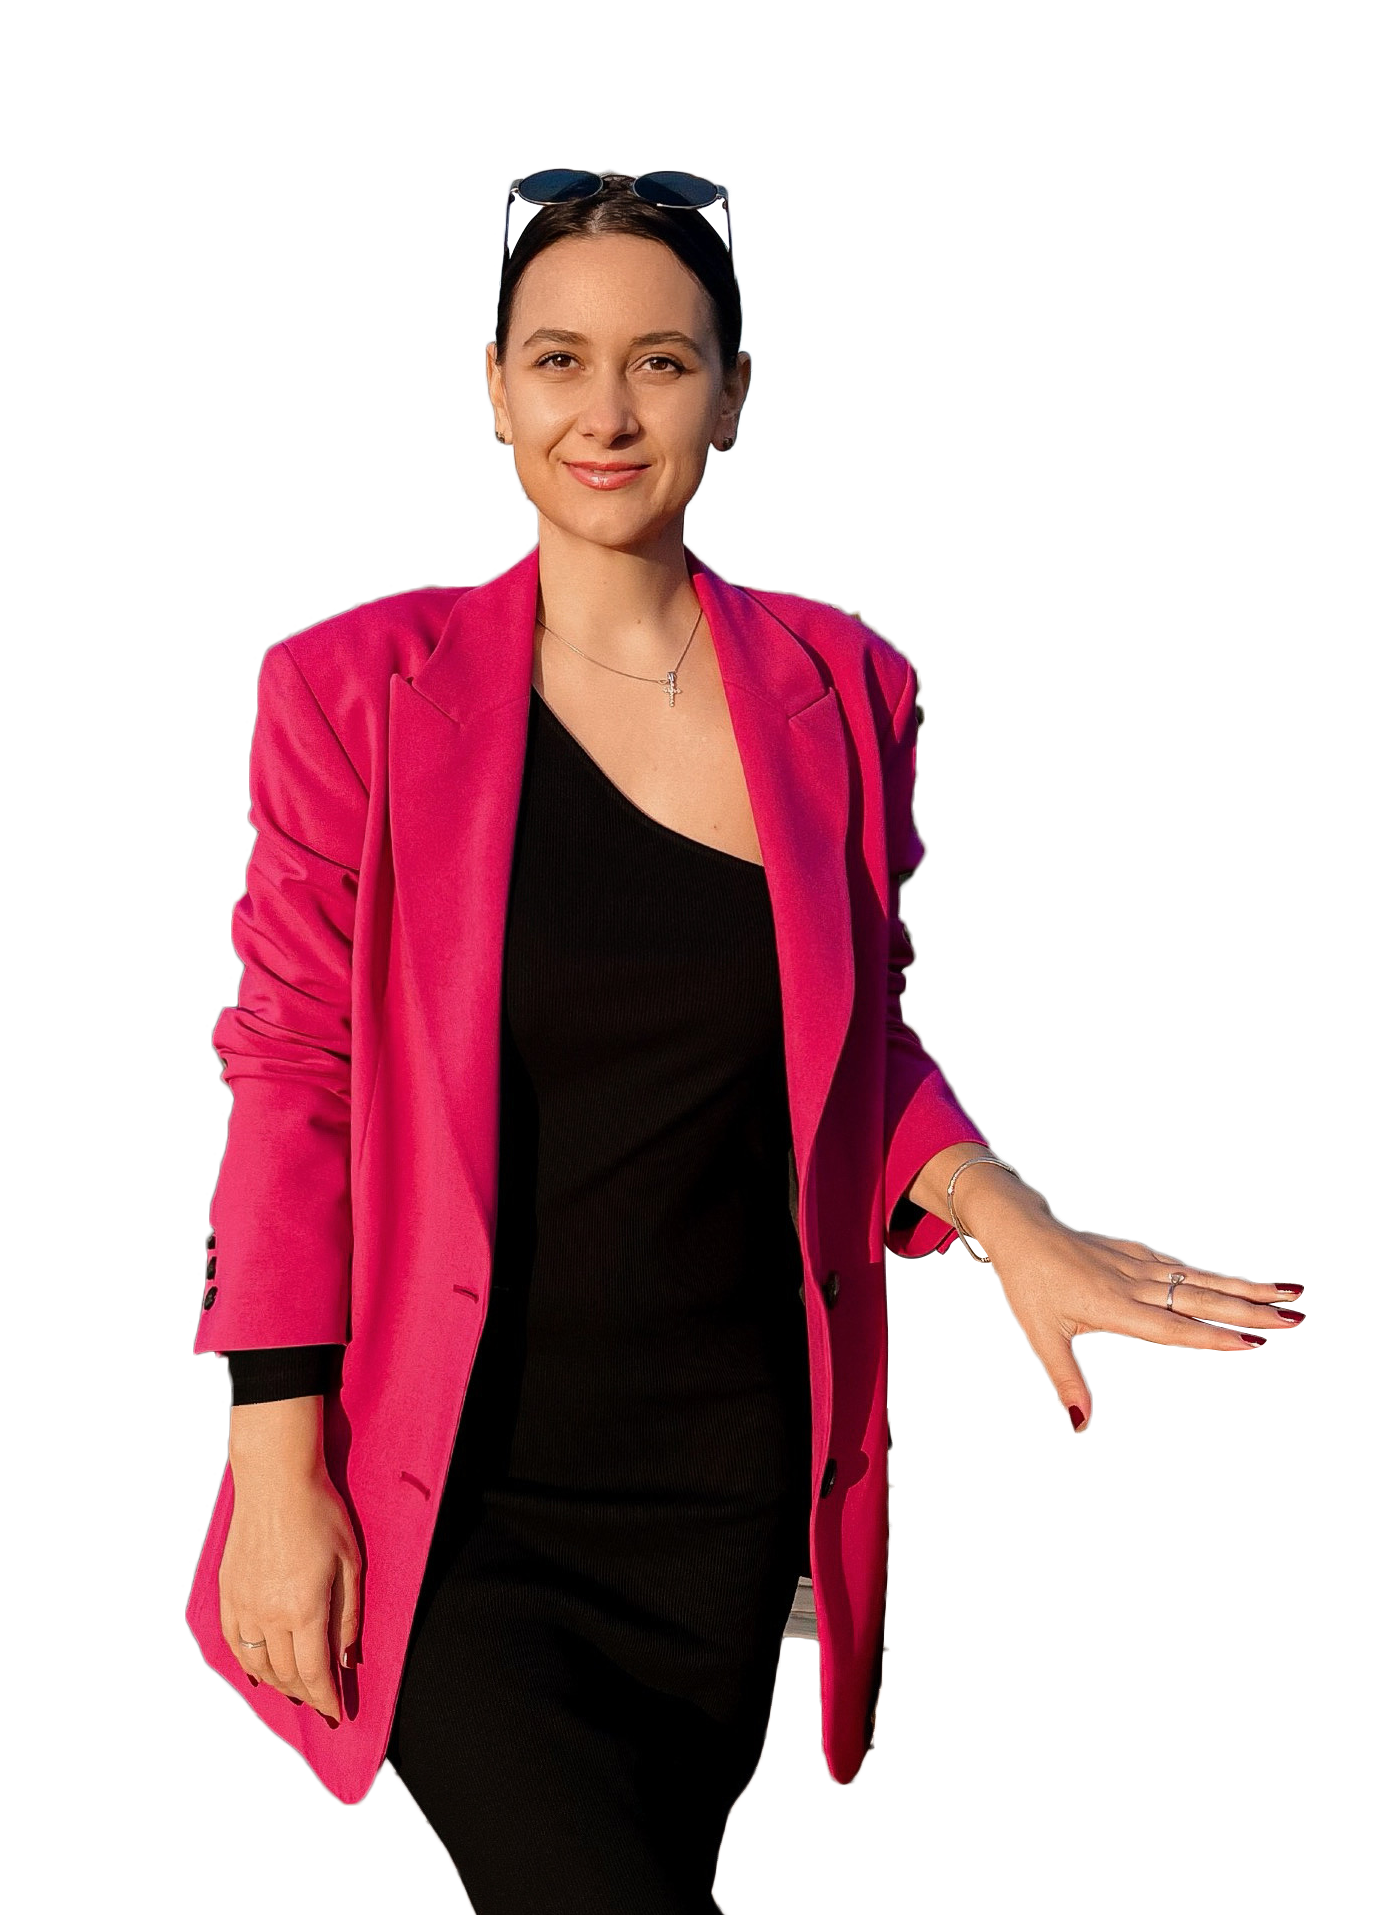
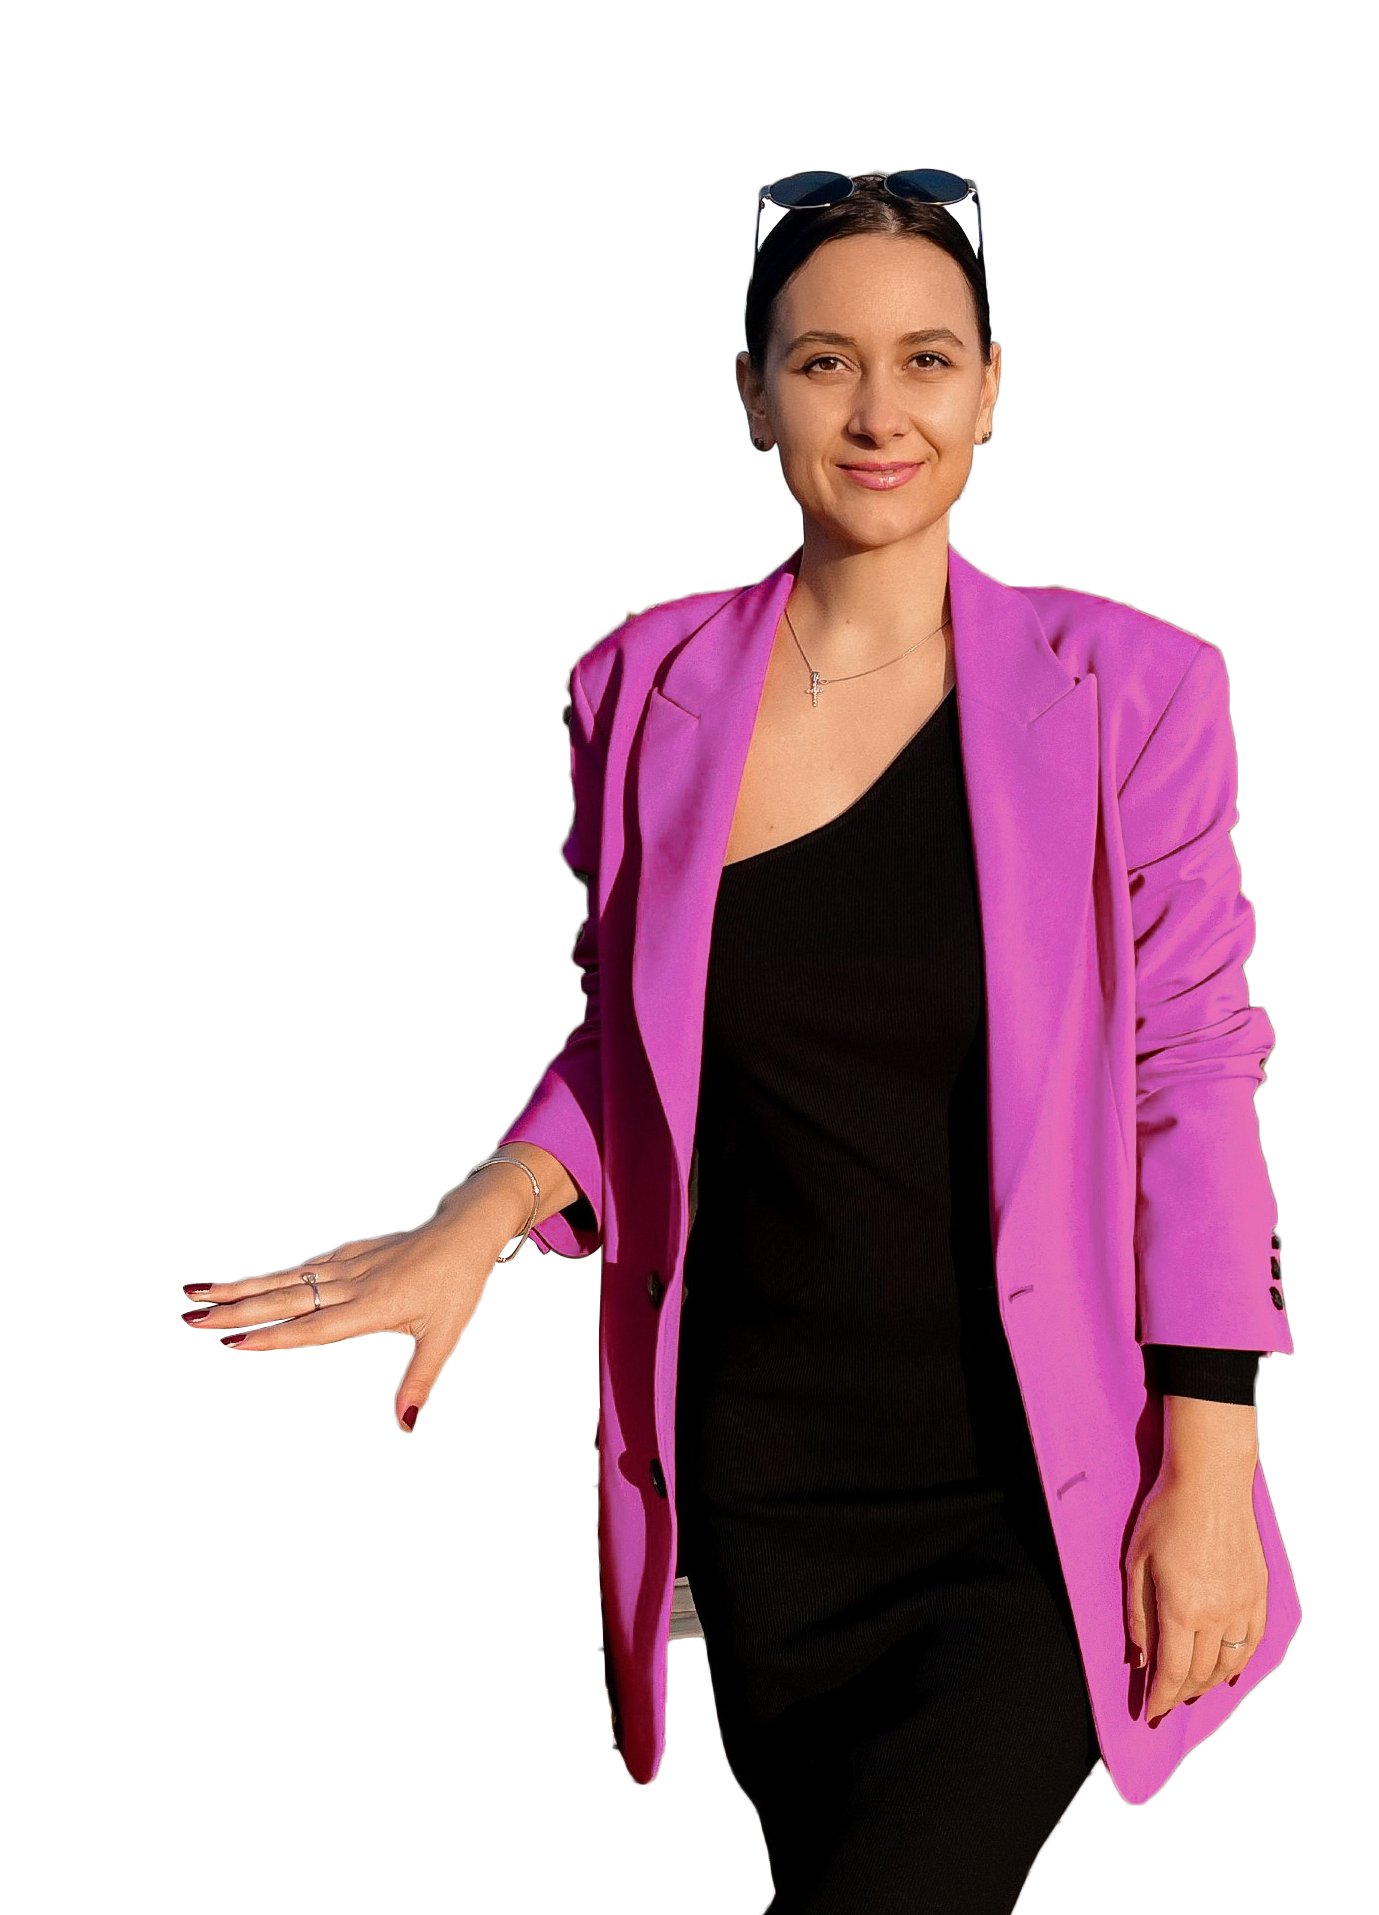
hero

diff --git a/src/partials/hero.html b/src/partials/hero.html
@@ -1,10 +1,45 @@
 <section class="hero-section">
   <div class="container">
+    <div class="main-photo-wrapper">
+      <picture class="main-photo">
+        <source
+          media="(min-width: 1200px)"
+          srcset="
+            ./img/components/milkchok_desk@1x.png 1x,
+            ./img/hero/portrait.png               2x
+          "
+          type="image/png"
+        />
+        <source
+          media="(min-width: 768px)"
+          srcset="
+            ./img/components/milkchocolate_tab@1x.png 1x,
+            ./img/components/milkchocolate_tab@2x.png 2x
+          "
+          type="image/png"
+        />
+        <source
+          media="(min-width: 320px)"
+          srcset="
+            ./img/components/milkchocolate@1x.png 1x,
+            ./img/components/milkchocolate@2x.png 2x
+          "
+          type="image/png"
+        />
+        <img
+          src="./img/hero/portrait.png"
+          alt="Milk chocolate"
+          class="images-components"
+          width="655"
+        />
+      </picture>
+    </div>
     <div class="hero-wrapper">
       <h1 class="visually-hidden">Simply chocolate</h1>
       <h2 class="hero-subtitle">
         Cтвори своє щасливе життя завдяки Законам Карми!
       </h2>
+
       <!-- <img class="img-test" src="/img/hero/FAiBR.png" alt="hjkhkjh" /> -->
       <div class="hero-btn-wrapper">
         <ul class="hero-list-btn list">

diff --git a/src/css/hero.css b/src/css/hero.css
@@ -19,7 +19,18 @@
     padding-bottom: 72px;
   }
 }
-
+.main-photo {
+  width: 1200px;
+  display: inline;
+}
+.main-photo-wrapper {
+  position: absolute;
+  top: -8px;
+  right: 180px;
+  width: 600px;
+  height: 700px;
+  overflow: hidden;
+}
 .hero-wrapper {
   display: flex;
   flex-direction: column;
@@ -110,6 +121,7 @@
 /*========== Subtitle ==========*/
 
 .hero-subtitle {
+  font-style: italic;
   margin-bottom: 32px;
   font-weight: 500;
   font-size: 20px;

diff --git a/src/css/styles.css b/src/css/styles.css
@@ -23,7 +23,7 @@
   --primary-font: Montserrat, sans-serif;
   --main-dark-font-color: rgba(17, 17, 17, 1);
   --main-light-font-color: #ffffff;
-  --accent-color: rgba(253, 146, 34, 1);
+  --accent-color: #bf52a3;
   --main-dark-background-color: rgba(30, 24, 35, 1);
   --transition-main: 300ms cubic-bezier(0.4, 0, 0.2, 1);
 }
